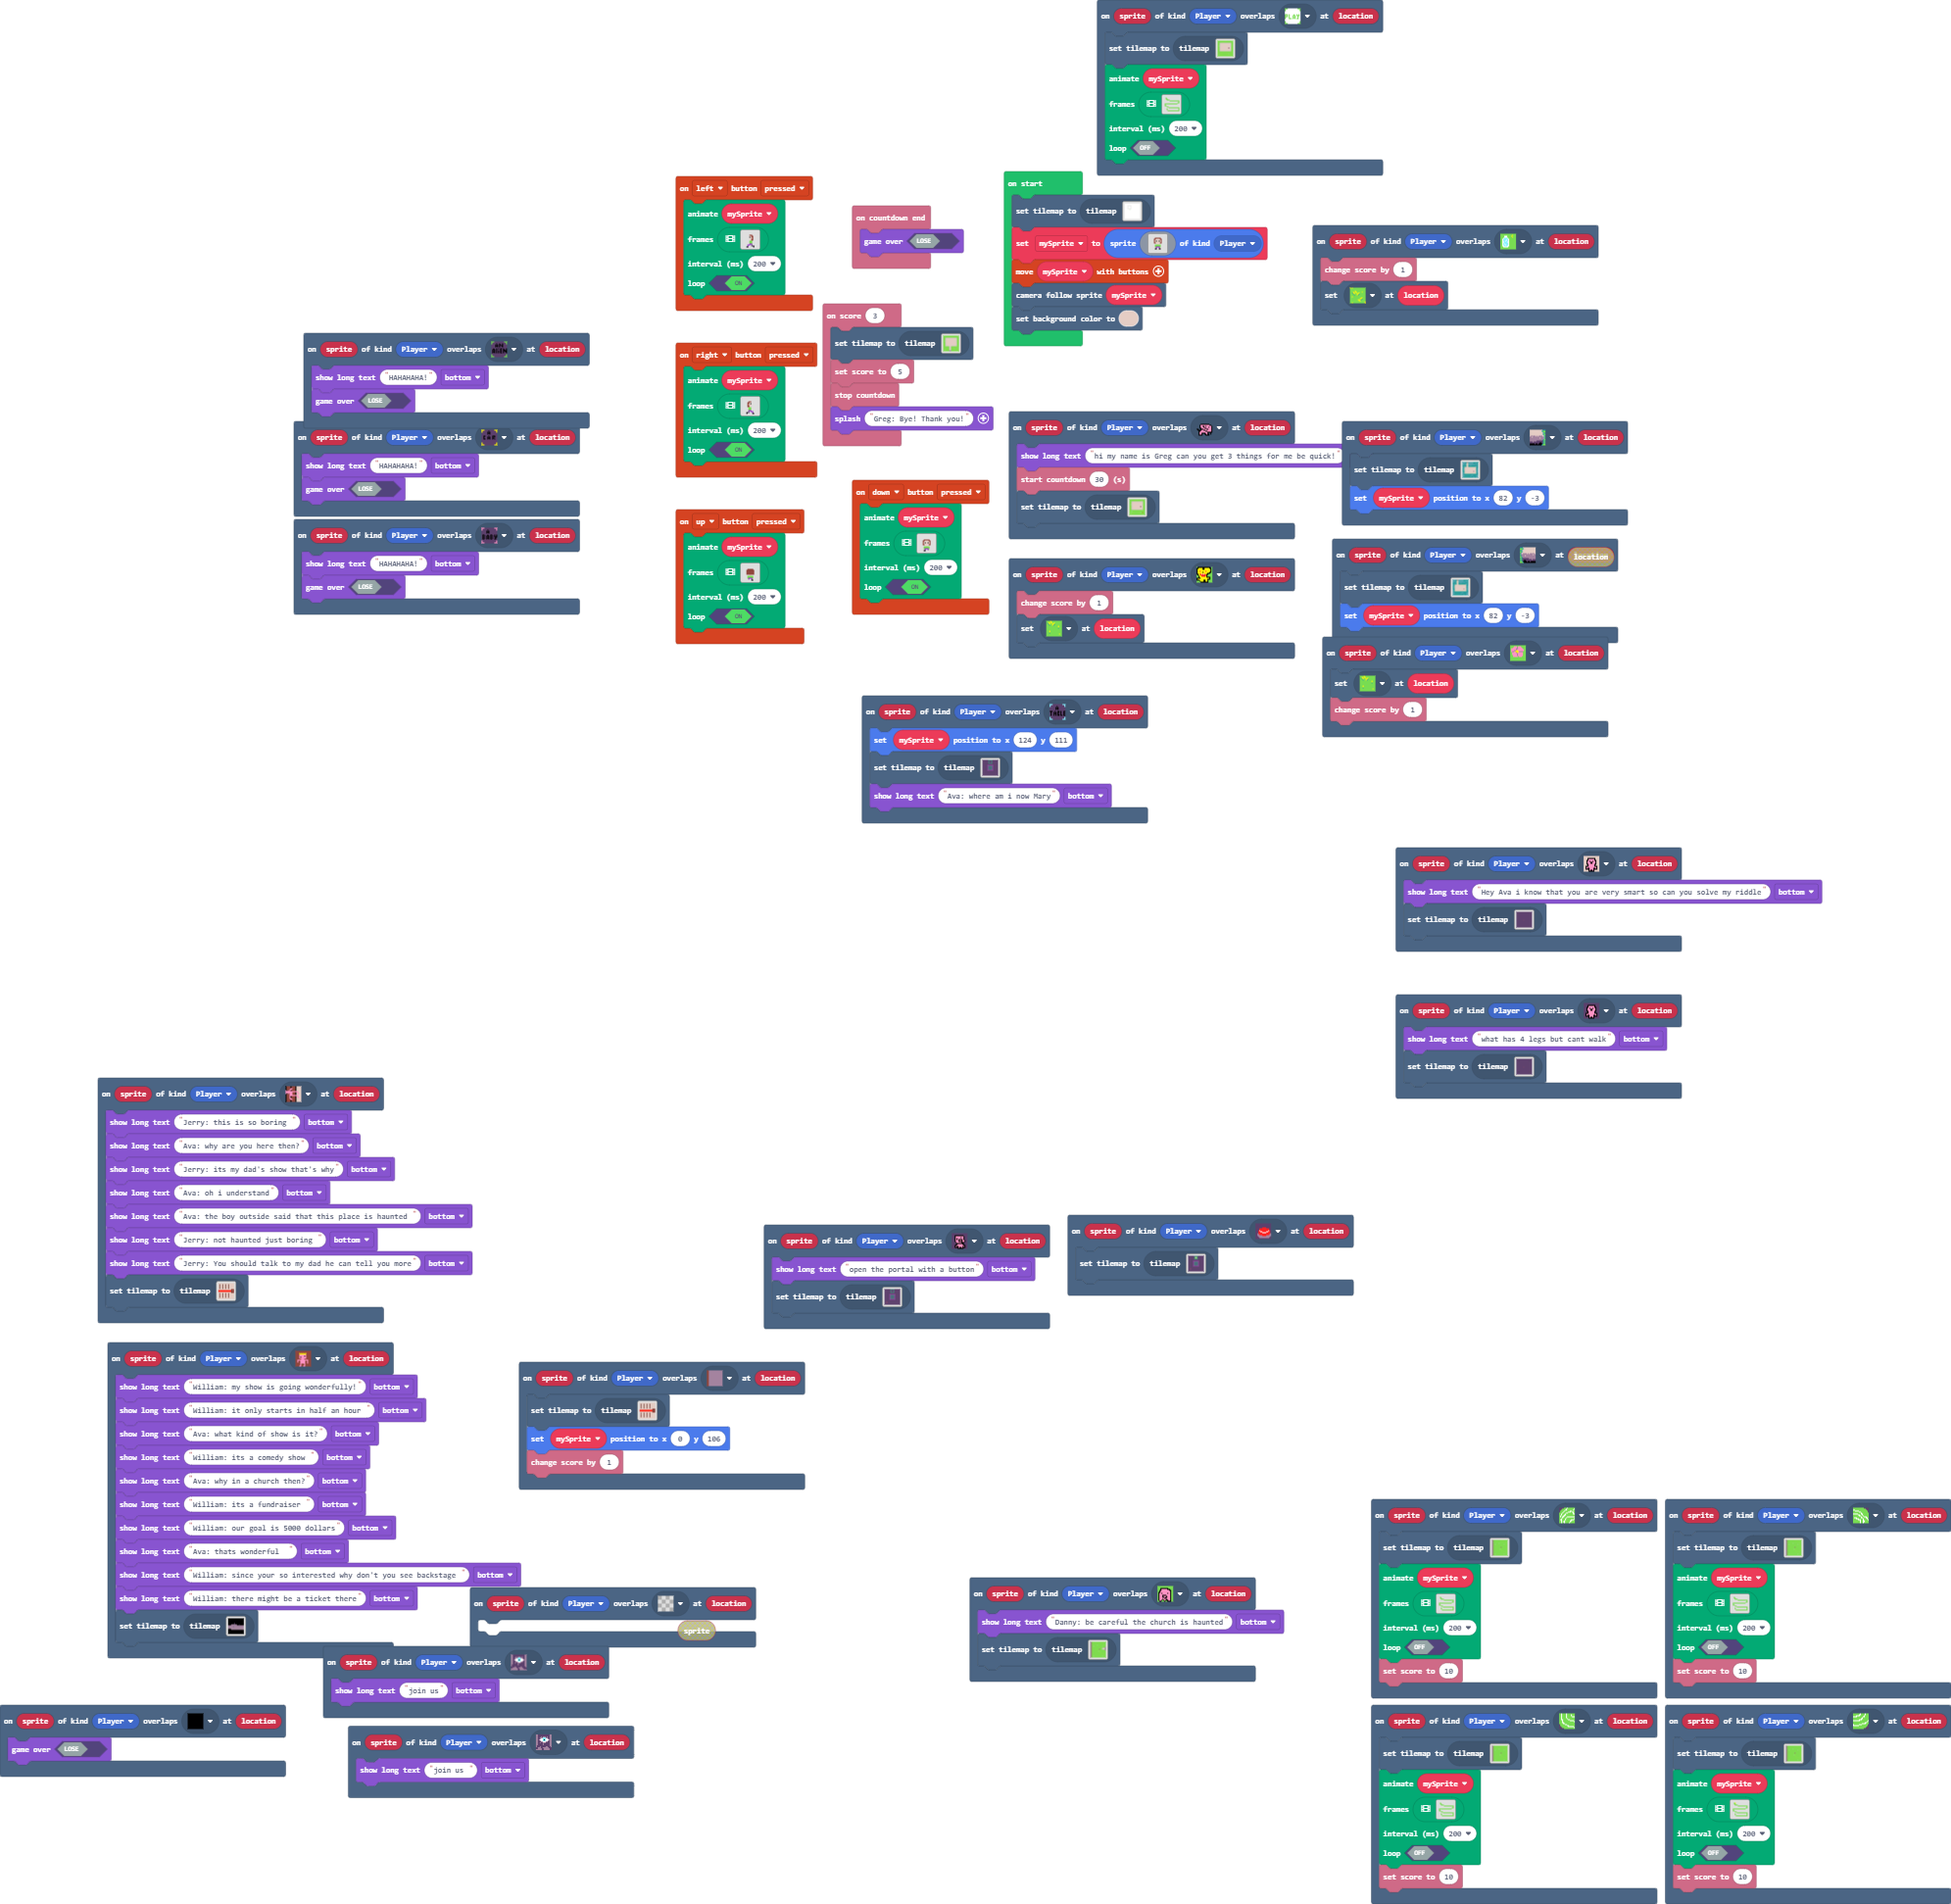
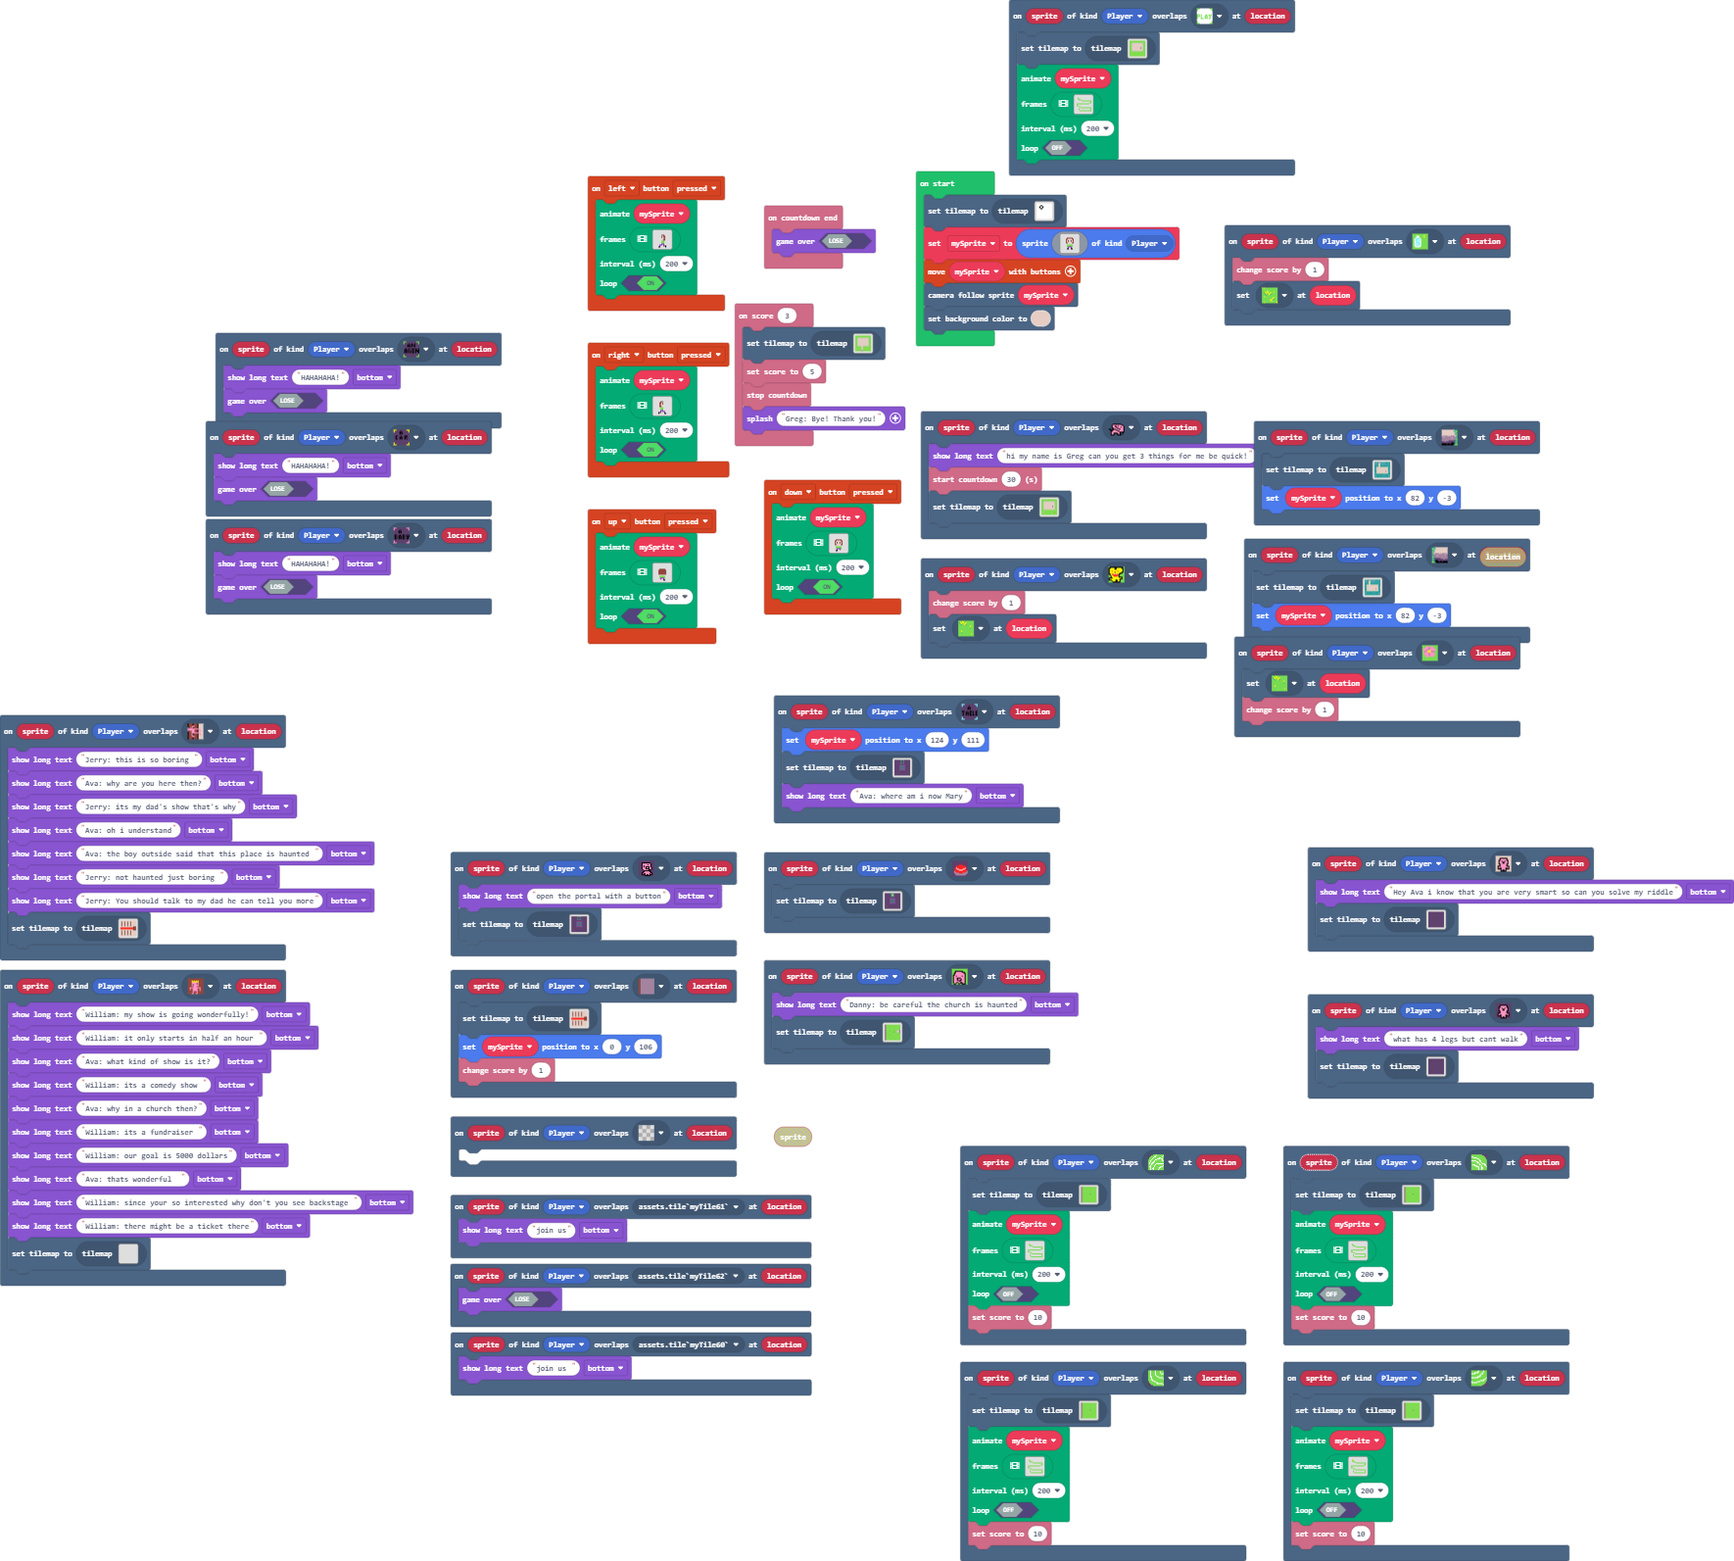
something

diff --git a/tilemap.g.ts b/tilemap.g.ts
@@ -110,60 +110,6 @@ namespace myTiles {
     export const tile53 = image.ofBuffer(hex``);
     //% fixedInstance jres blockIdentity=images._tile
     export const tile54 = image.ofBuffer(hex``);
-    //% fixedInstance jres blockIdentity=images._tile
-    export const tile66 = image.ofBuffer(hex``);
-    //% fixedInstance jres blockIdentity=images._tile
-    export const tile55 = image.ofBuffer(hex``);
-    //% fixedInstance jres blockIdentity=images._tile
-    export const tile64 = image.ofBuffer(hex``);
-    //% fixedInstance jres blockIdentity=images._tile
-    export const tile61 = image.ofBuffer(hex``);
-    //% fixedInstance jres blockIdentity=images._tile
-    export const tile67 = image.ofBuffer(hex``);
-    //% fixedInstance jres blockIdentity=images._tile
-    export const tile68 = image.ofBuffer(hex``);
-    //% fixedInstance jres blockIdentity=images._tile
-    export const tile69 = image.ofBuffer(hex``);
-    //% fixedInstance jres blockIdentity=images._tile
-    export const tile70 = image.ofBuffer(hex``);
-    //% fixedInstance jres blockIdentity=images._tile
-    export const tile71 = image.ofBuffer(hex``);
-    //% fixedInstance jres blockIdentity=images._tile
-    export const tile58 = image.ofBuffer(hex``);
-    //% fixedInstance jres blockIdentity=images._tile
-    export const tile56 = image.ofBuffer(hex``);
-    //% fixedInstance jres blockIdentity=images._tile
-    export const tile57 = image.ofBuffer(hex``);
-    //% fixedInstance jres blockIdentity=images._tile
-    export const tile59 = image.ofBuffer(hex``);
-    //% fixedInstance jres blockIdentity=images._tile
-    export const tile60 = image.ofBuffer(hex``);
-    //% fixedInstance jres blockIdentity=images._tile
-    export const tile63 = image.ofBuffer(hex``);
-    //% fixedInstance jres blockIdentity=images._tile
-    export const tile62 = image.ofBuffer(hex``);
-    //% fixedInstance jres blockIdentity=images._tile
-    export const tile65 = image.ofBuffer(hex``);
-    //% fixedInstance jres blockIdentity=images._tile
-    export const tile72 = image.ofBuffer(hex``);
-    //% fixedInstance jres blockIdentity=images._tile
-    export const tile73 = image.ofBuffer(hex``);
-    //% fixedInstance jres blockIdentity=images._tile
-    export const tile74 = image.ofBuffer(hex``);
-    //% fixedInstance jres blockIdentity=images._tile
-    export const tile75 = image.ofBuffer(hex``);
-    //% fixedInstance jres blockIdentity=images._tile
-    export const tile76 = image.ofBuffer(hex``);
-    //% fixedInstance jres blockIdentity=images._tile
-    export const tile77 = image.ofBuffer(hex``);
-    //% fixedInstance jres blockIdentity=images._tile
-    export const tile78 = image.ofBuffer(hex``);
-    //% fixedInstance jres blockIdentity=images._tile
-    export const tile79 = image.ofBuffer(hex``);
-    //% fixedInstance jres blockIdentity=images._tile
-    export const tile80 = image.ofBuffer(hex``);
-    //% fixedInstance jres blockIdentity=images._tile
-    export const tile81 = image.ofBuffer(hex``);
 
     helpers._registerFactory("tilemap", function(name: string) {
         switch(helpers.stringTrim(name)) {
@@ -832,27 +778,8 @@ namespace myTiles {
 . . . . . . . . . . . . . . . . 
 . . . . . . . . . . . . . . . . 
 `, [myTiles.transparency16,myTiles.tile38,myTiles.tile39,myTiles.tile40,myTiles.tile41,myTiles.tile42,myTiles.tile43,myTiles.tile44,myTiles.tile45,myTiles.tile46,myTiles.tile48,myTiles.tile49,myTiles.tile50,myTiles.tile52,myTiles.tile37], TileScale.Sixteen);
-            case "level43":
[1 lines of base64/hex data omitted]
-. . . . . . . . . . . . . . . . 
-. . . . . . . . . . . . . . . . 
-. . . . . . . . . . . . . . . . 
-. . . . . . . . . . . . . . . . 
-. . . . . . . . . . . . . . . . 
-. . . . . . . . . . . . . . . . 
-. . . . . . . . . . . . . . . . 
-. . . . . . . . . . . . . . . . 
-. . . . . . . . . . . . . . . . 
-. . . . . . . . . . . . . . . . 
-. . . . . . . . . . . . . . . . 
-. . . . . . . . . . . . . . . . 
-. . . . . . . . . . . . . . . . 
-. . . . . . . . . . . . . . . . 
-. . . . . . . . . . . . . . . . 
-. . . . . . . . . . . . . . . . 
-`, [myTiles.transparency16,myTiles.tile55,myTiles.tile56,myTiles.tile57,myTiles.tile58,myTiles.tile59,myTiles.tile60,myTiles.tile61,myTiles.tile62,myTiles.tile63,myTiles.tile64,myTiles.tile65,myTiles.tile67,myTiles.tile68,myTiles.tile69,myTiles.tile70,myTiles.tile71,myTiles.tile72,myTiles.tile73], TileScale.Sixteen);
             case "level7":
[1 lines of base64/hex data omitted]
+            case "level7":return tiles.createTilemap(hex`1000100001010101010101010101010101010101010101010101010101010101010101010101010102020101010101010101010101010102010102050101010101010101010104020101020101010101010101010101010102020101010101010101010101010101010301010101010101010101010101010101010101010101010101010101010101010101010101010101010101010101010101010101010101010101010101010101010101010101010101010101010101010101010101010101010101010101010101010101010101010101010101010101010101010101010101010101010101010101010101010101010101010101010101010101010101010101`, img`
 . . . . . . . . . 2 . . . . . . 
 . . . . . . . . . 2 . . . . . . 
 . . . . . . . . . 2 . . . . . . 
@@ -869,7 +796,26 @@ namespace myTiles {
 . . . . . . . . . . . . . . . . 
 . . . . . . . . . . . . . . . . 
 . . . . . . . . . . . . . . . . 
-`, [myTiles.transparency16,myTiles.tile20,myTiles.tile22,myTiles.tile74,myTiles.tile75,myTiles.tile76,myTiles.tile77,myTiles.tile78,myTiles.tile79,myTiles.tile80,myTiles.tile81], TileScale.Sixteen);
+`, [myTiles.transparency16,myTiles.tile20,myTiles.tile21,myTiles.tile22,myTiles.tile53,myTiles.tile54], TileScale.Sixteen);
+            case "level43":
+            case "level43":return tiles.createTilemap(hex`1000100000000000000000000000000000000000000000000000000000000000000000000000000000000000000000000000000000000000000000000000000000000000000000000000000000000000000000000000000000000000000000000000000000000000000000000000000000000000000000000000000000000000000000000000000000000000000000000000000000000000000000000000000000000000000000000000000000000000000000000000000000000000000000000000000000000000000000000000000000000000000000000000000000000000000000000000000000000000000000000000000000000000000000000000000000000000`, img`
+. . . . . . . . . . . . . . . . 
+. . . . . . . . . . . . . . . . 
+. . . . . . . . . . . . . . . . 
+. . . . . . . . . . . . . . . . 
+. . . . . . . . . . . . . . . . 
+. . . . . . . . . . . . . . . . 
+. . . . . . . . . . . . . . . . 
+. . . . . . . . . . . . . . . . 
+. . . . . . . . . . . . . . . . 
+. . . . . . . . . . . . . . . . 
+. . . . . . . . . . . . . . . . 
+. . . . . . . . . . . . . . . . 
+. . . . . . . . . . . . . . . . 
+. . . . . . . . . . . . . . . . 
+. . . . . . . . . . . . . . . . 
+. . . . . . . . . . . . . . . . 
+`, [], -Infinity);
         }
         return null;
     })
@@ -985,60 +931,6 @@ namespace myTiles {
             case "tile53":return tile53;
             case "myTile52":
             case "tile54":return tile54;
-            case "myTile64":
-            case "tile66":return tile66;
-            case "myTile53":
-            case "tile55":return tile55;
-            case "myTile62":
-            case "tile64":return tile64;
-            case "myTile59":
-            case "tile61":return tile61;
-            case "myTile65":
-            case "tile67":return tile67;
-            case "myTile66":
-            case "tile68":return tile68;
-            case "myTile67":
-            case "tile69":return tile69;
-            case "myTile68":
-            case "tile70":return tile70;
-            case "myTile69":
-            case "tile71":return tile71;
-            case "myTile56":
-            case "tile58":return tile58;
-            case "myTile54":
-            case "tile56":return tile56;
-            case "myTile55":
-            case "tile57":return tile57;
-            case "myTile57":
-            case "tile59":return tile59;
-            case "myTile58":
-            case "tile60":return tile60;
-            case "myTile61":
-            case "tile63":return tile63;
-            case "myTile60":
-            case "tile62":return tile62;
-            case "myTile63":
-            case "tile65":return tile65;
-            case "myTile70":
-            case "tile72":return tile72;
-            case "myTile71":
-            case "tile73":return tile73;
-            case "myTile72":
-            case "tile74":return tile74;
-            case "myTile73":
-            case "tile75":return tile75;
-            case "myTile74":
-            case "tile76":return tile76;
-            case "myTile75":
-            case "tile77":return tile77;
-            case "myTile76":
-            case "tile78":return tile78;
-            case "myTile77":
-            case "tile79":return tile79;
-            case "myTile78":
-            case "tile80":return tile80;
-            case "myTile79":
-            case "tile81":return tile81;
         }
         return null;
     })
